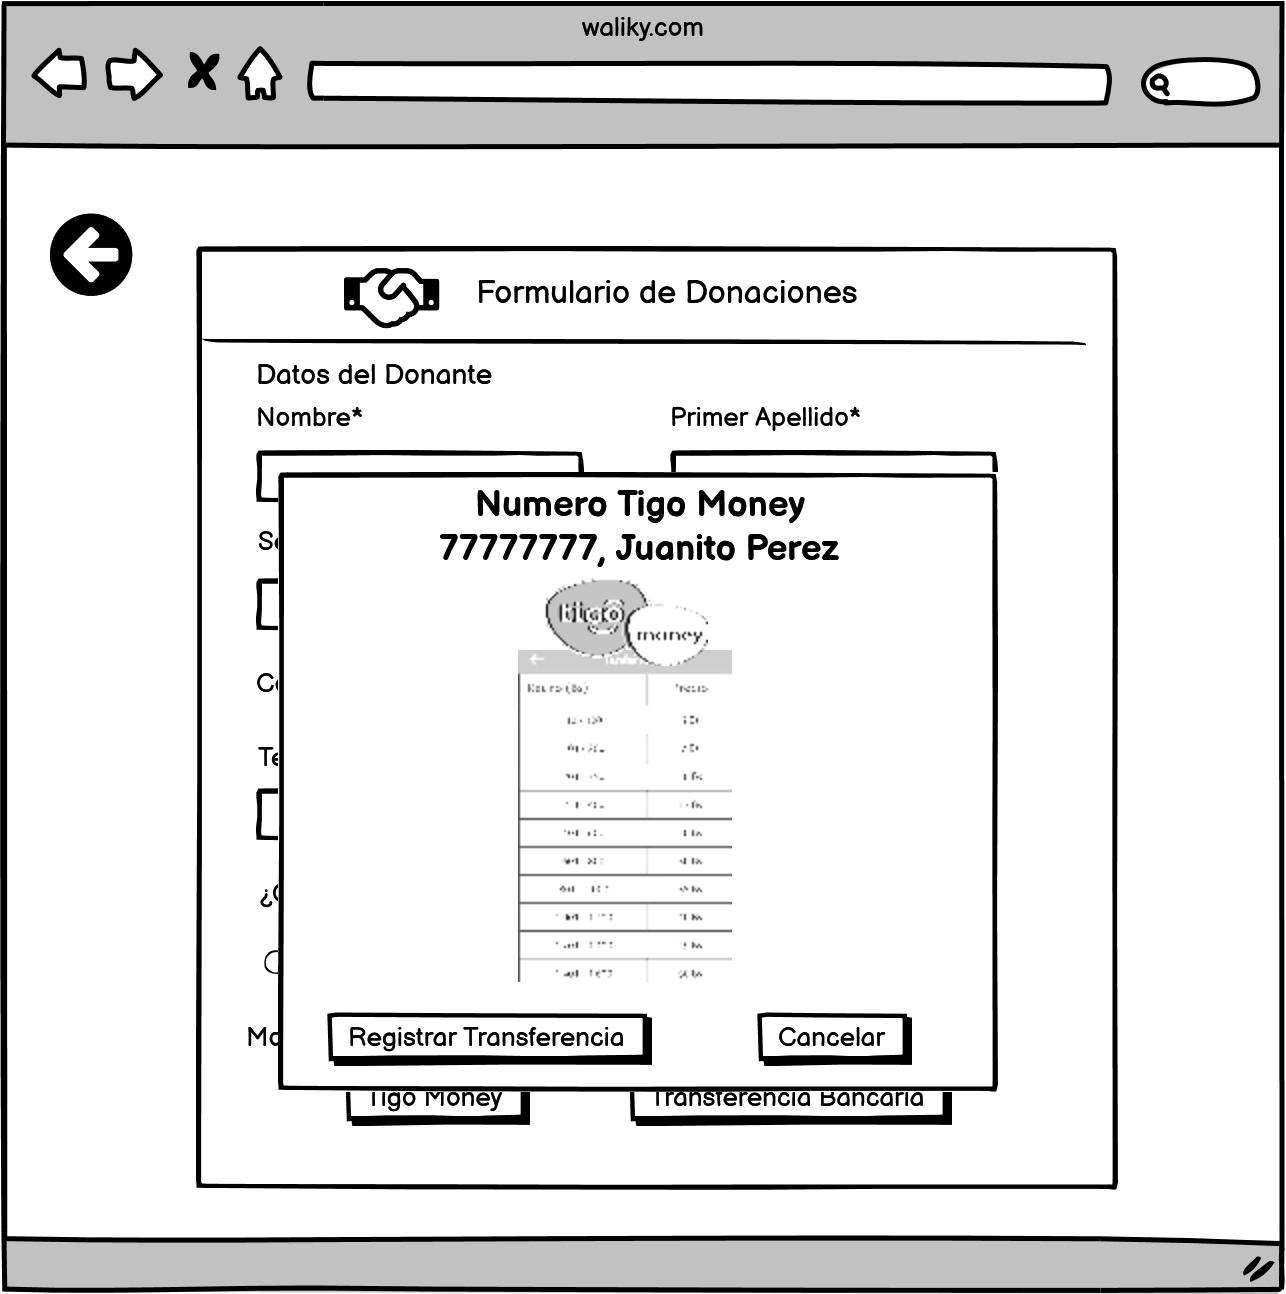
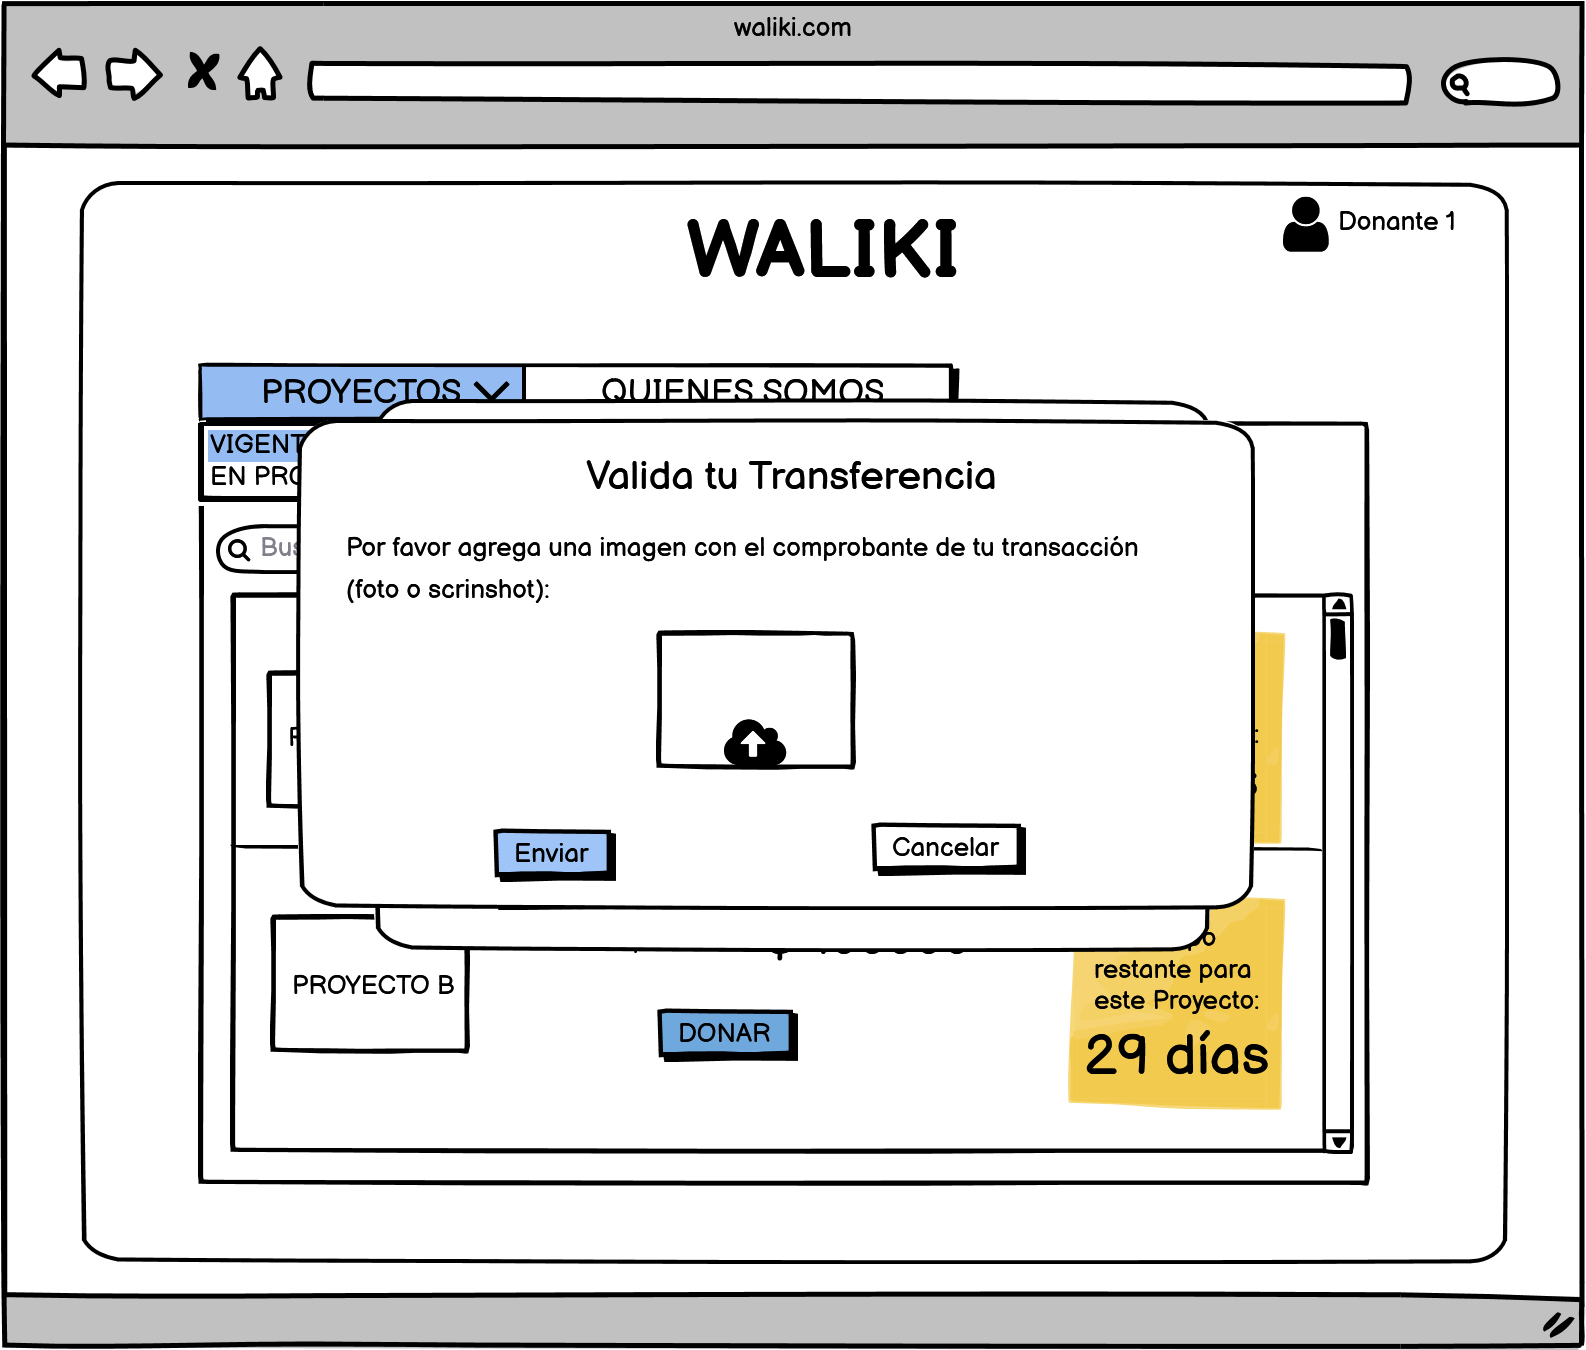
Agregando HU 12 y HU 13

diff --git a/Tarea 3 Historias de Usuario/Historias de Usuario.md b/Tarea 3 Historias de Usuario/Historias de Usuario.md
@@ -266,11 +266,10 @@ Diagrama de Recuperacion de contraseña
 | **Validación** | Para este perfil, el artesano podrá gestionar sus proyectos de manera fácil  a través de un catálogo, el podrá editarlos o agregar un nuevo proyecto. |
 
 ![RF-10](RF-10.png)
-###**Figura 14**
-
+### **Figura 14**
 
 ![RF-10.1](RF-10.1.png)
-###**Figura 14**
+### **Figura 14**
 
 
 
@@ -284,10 +283,10 @@ Diagrama de Recuperacion de contraseña
 | **Validación** | Para este perfil, el donante podrá gestionar todos los proyectos a cuál el atribuyo una donación, podrá hacer seguimiento del proyecto viendo actualizaciones en base de imágenes o videos que suba cada semana el artesano. Si el Donante ve que el proyecto va por buen camino siempre tendrá la opción de hacer una nueva donación. |
 
 ![RF-11](RF-11.png)
-###**Figura 15**
+### **Figura 15**
 
 ![RF-11](RF-11.1.png)
-###**Figura 15**
+### **Figura 15**
 
 
 ### **12 Formulario de Donaciónes**
@@ -299,16 +298,10 @@ Diagrama de Recuperacion de contraseña
 | **Validación** | Para que esta donación se lleve a cabo deberá registrar su nombre completo, sexo, correo electrónico, teléfono, ciudad, seleccionar el monto a donar (no menos de 10 Bs.) y el tipo de transferencia. Al seleccionar la modalidad de donación se desplegará una nueva ventana donde se podrá observar los números de cuenta y su descripción. |
 
 ![RF-12](RF-12.png)
-###**Figura 16**
+### **Figura 16**
 ![RF-12.1](RF-12.1.png)
-###**Figura 17**
-![RF-12.2](RF-12.2.png)
-###**Figura 18**
+### **Figura 17**
 
-![Diag-12](Diag-12.png)
-### **Diagrama 12**
-
-### **Figura 12**
 
 ### **13 Registro de Transferencia**
 | **Codigo** |	RF-13 |
@@ -318,34 +311,16 @@ Diagrama de Recuperacion de contraseña
 | **Descripción** | Se pretende tener un registro de todas las donaciones realizadas, por lo cual cada donante podrá registrar su donación una vez que realice la transferencia.  |
 | **Validación** | Para este registro el sistema automáticamente generara un numero de transferencia y los datos del donante. El donante podrá volver a confirmar su monto de transacción y agregar una imagen con el comprobante (foto o scrinshot), y al final se enviará ese registro a los administradores para que sea verificado o rechazado. |
 
+
 ![RF-13](RF-13.png)
-<<<<<<< HEAD
-###**Figura 19**
-![RF-13.1](RF-13.1.png)
-###**Figura 20**
-![RF-13.2](RF-13.2.png)
-###**Figura 21**
-=======
 
-### **Figura 13**
+### **Figura 19**
 
 ![RF-13.1](RF-13.1.png)
 
-### **Figura 13.1**
+### **Figura 20**
 
-![RF-13.2](RF-13.2.png)
 
-### **Figura 13.2**
-
->>>>>>> e4d56d853c2f581165c591be8dcf95dbf6ed6fe3
-
-![Diag-13](Diag-13.png)
-### **Diagrama 13**
-
-<<<<<<< HEAD
-=======
-### **Figura 14**
->>>>>>> e4d56d853c2f581165c591be8dcf95dbf6ed6fe3
 ## **Conclusión**
 Concluido el análisis minucioso de los requerimientos necesarios para la la plataforma de crowfunding "Waliki",
 se cumplió con el objetivo del documento, logrando identificar los requisitos
